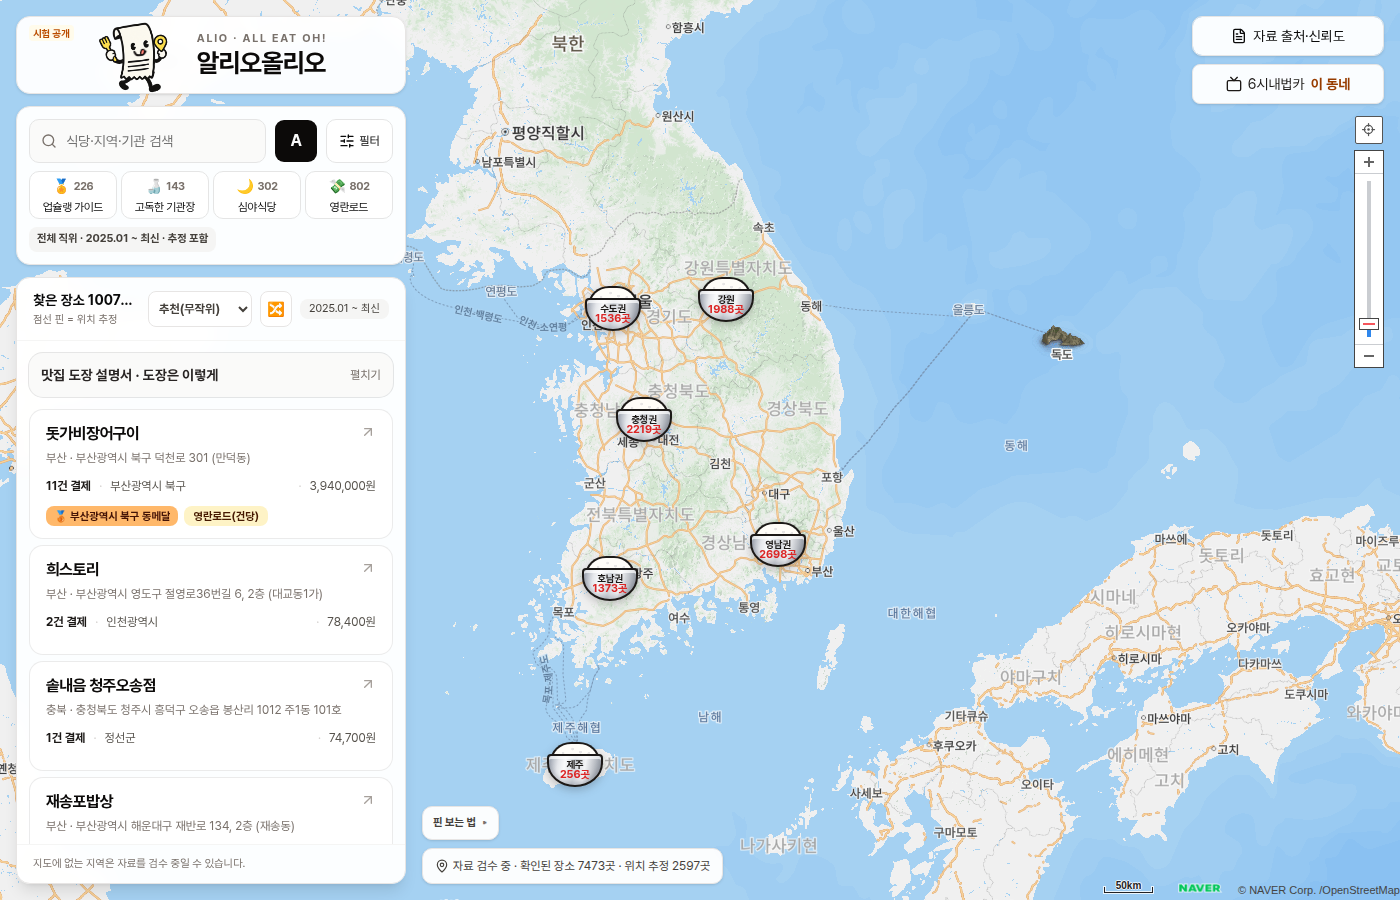
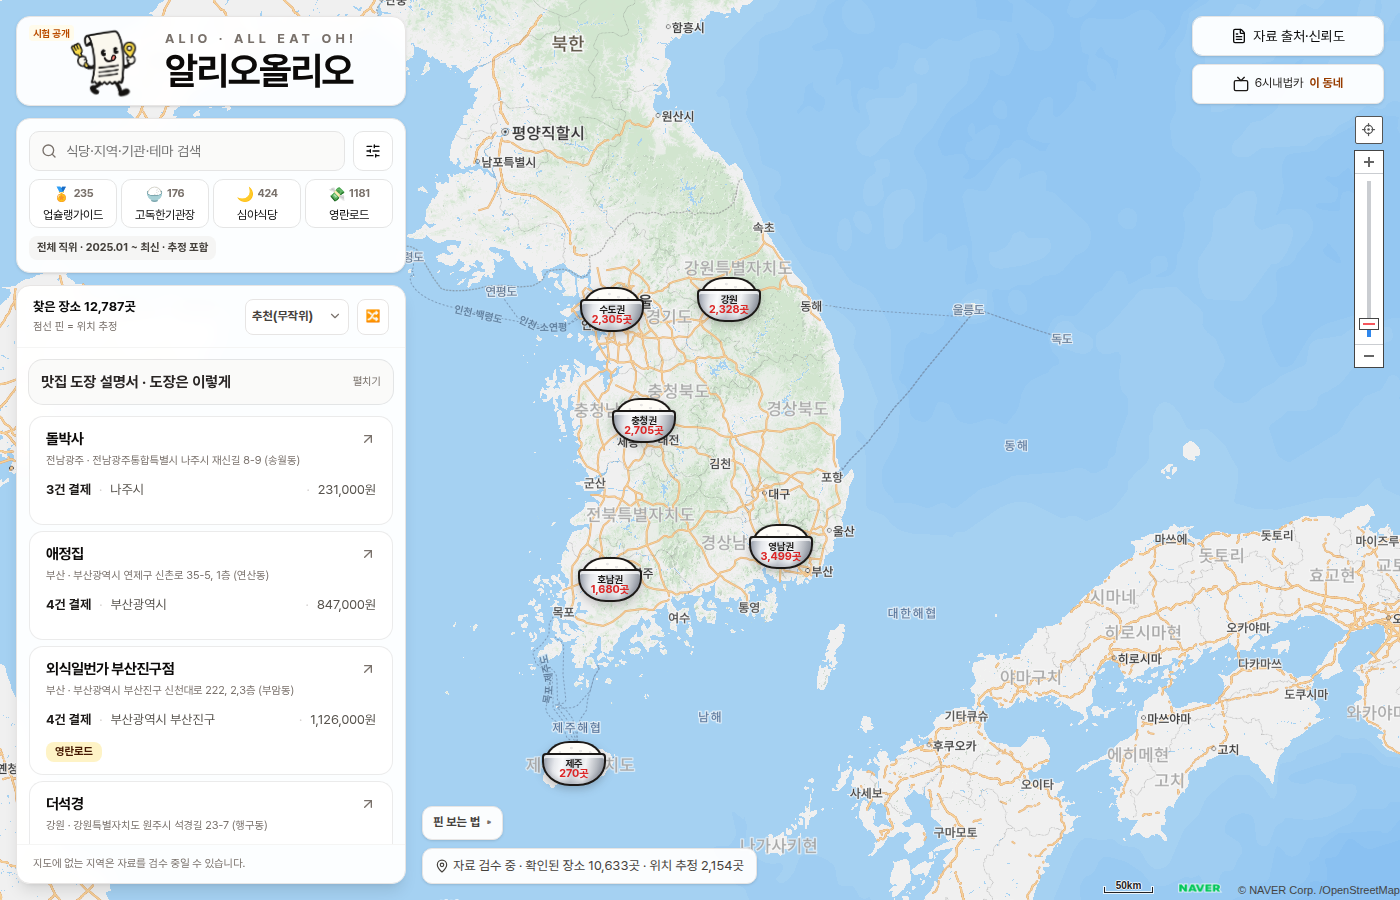
소개글 갱신: 수록 범위(2026-11-02), 금·은·동수저·검색 필터·직위, 화면 캡처

diff --git a/README.md b/README.md
@@ -40,13 +40,13 @@
 |---|---|
 | <img src="assets/screen-pc.png" height="420" alt="PC 화면"> | <img src="assets/screen-mobile.png" height="420" alt="모바일 화면"> |
 
-## 📚 수록 범위 (2026-10-30 기준)
+## 📚 수록 범위 (2026-11-02 기준)
 
 | 항목 | 규모 |
 |---|---|
-| 지도에 오른 장소 | 16,318곳 (확정 위치 11,868 · 위치 추정 4,450) |
-| 결제 기록 | 140,334건 |
-| 장소가 1곳 이상인 기관 | 179개 |
+| 지도에 오른 장소 | 20,887곳 (확정 위치 17,279 · 위치 추정 3,608) |
+| 지도에 연결된 결제 기록 | 184,803건 (원본 대조 확인 180,304건) |
+| 장소가 1곳 이상인 기관 | 202개 |
 | 기간 | 2019년 ~ 최신 공개분 |
 
 자료는 **분기 또는 반기마다** 새 공개분을 모아 갱신합니다.
@@ -63,7 +63,9 @@
   | <img src="assets/mascot-night.png" height="56"> | 🌙 **심야식당** | 기관장 결제 중 밤 8시~새벽 5시 결제가 3건 이상 |
   | <img src="assets/mascot-yeongran.png" height="56"> | 💸 **영란로드** | 1인당 식사 가액 기준(3만 원, 2024.8.27부터 5만 원)의 90~100% 결제 3건 이상 또는 건당 50만 원 이상 2건 이상 (참고 지표) |
 
-- **연도별 금·은·동 · 장기집권**: 같은 기관이 그해 4건·3개월 이상 결제한 곳을 단골로 보고, 결제 횟수 1~3위에 🥇🥈🥉, 3년 연속 1위면 장기집권 👑.
+- **연도별 금·은·동수저 · 장기집권**: 같은 기관이 그해 4건·3개월 이상 결제한 곳을 단골로 보고, 결제 횟수 1~3위에 🥇🥈🥉 금·은·동수저, 3년 연속 1위면 장기집권 👑.
+- **검색으로 거르기**: 식당·지역·기관 이름 외에 '업슐랭', '심야식당', '금수저', '단골', '장기집권' 같은 테마·수저 이름으로 검색하면 그런 곳만 보입니다.
+- **직위 필터**: 전체 직위(기본) · 기관장 · 임원 · 본부장 · 부서장 · 기타 직위.
 - **📺 6시내법카(지역 리포트)**: 시·도/시·군·구를 고르면 지역에 음영을 씌우고 결제 요약, 오래 사랑받은 곳, 최근 줄 서는 곳 등을 보여 줍니다.
 - **내 위치 · 네이버 지도 연결**: 내 주변 식당을 보고, 식당 카드에서 네이버 지도 장소 정보로 바로 넘어갑니다.
 
@@ -76,7 +78,7 @@
 ## ⚠ 알아 두세요
 
 - 공개된 **과거 결제 기록**을 정리한 것입니다. 직위는 결제마다 공시된 값이며 **본인 참석이나 현재 방문을 뜻하지 않습니다.**
-- 도장·메달은 재미로 붙인 분류입니다. **맛 평가나 적법·부당 여부 판단이 아닙니다.**
+- 도장·수저는 재미로 붙인 분류입니다. **맛 평가나 적법·부당 여부 판단이 아닙니다.**
 - 개인 이름, 연락처, 카드번호, 원본 파일은 싣지 않습니다.
 - 위치 추정 장소는 실제 결제 지점과 다를 수 있습니다. 잘못된 위치·상호는 사이트의 정정 요청으로 알려 주시면 고칩니다.
 
